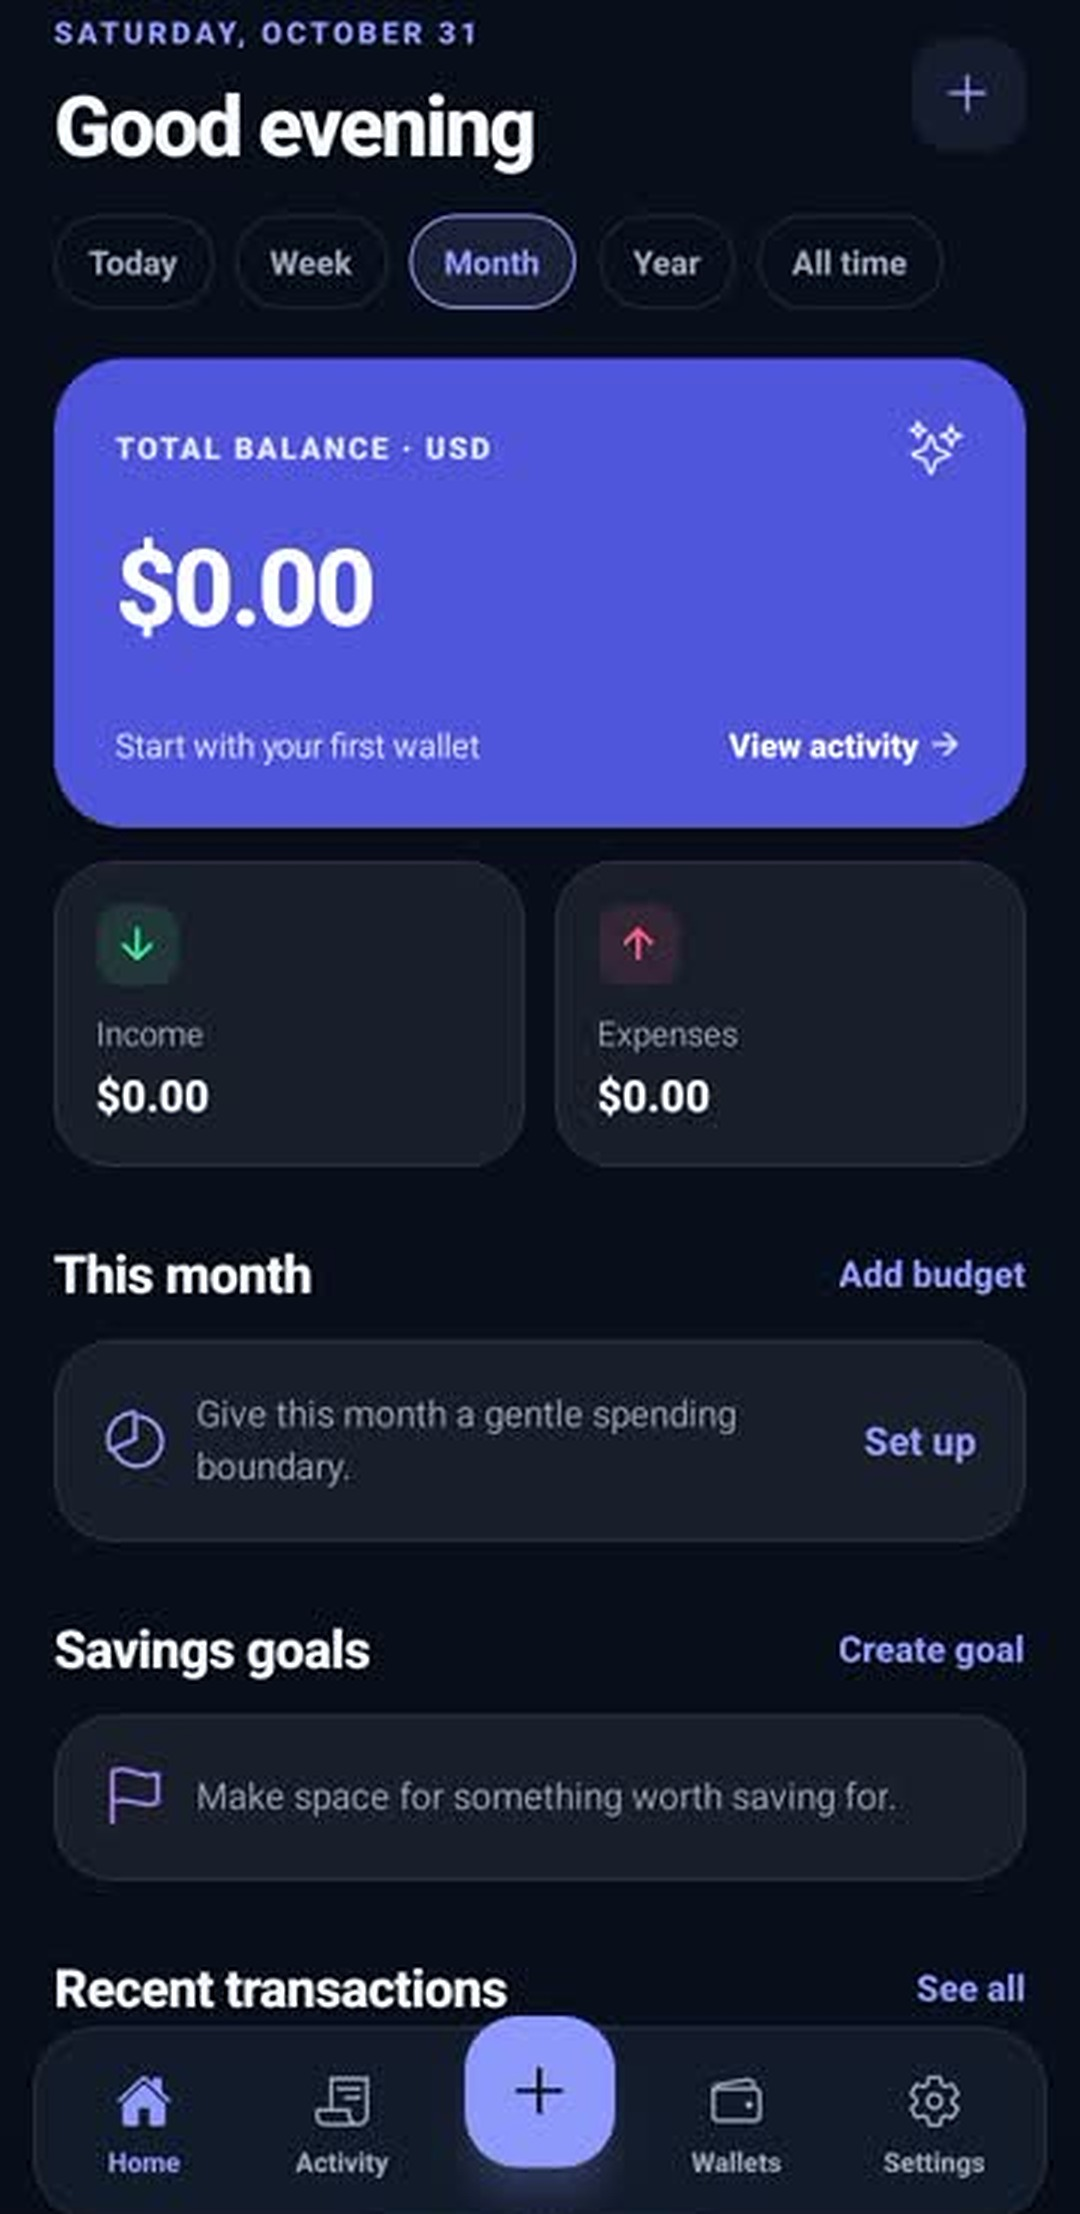
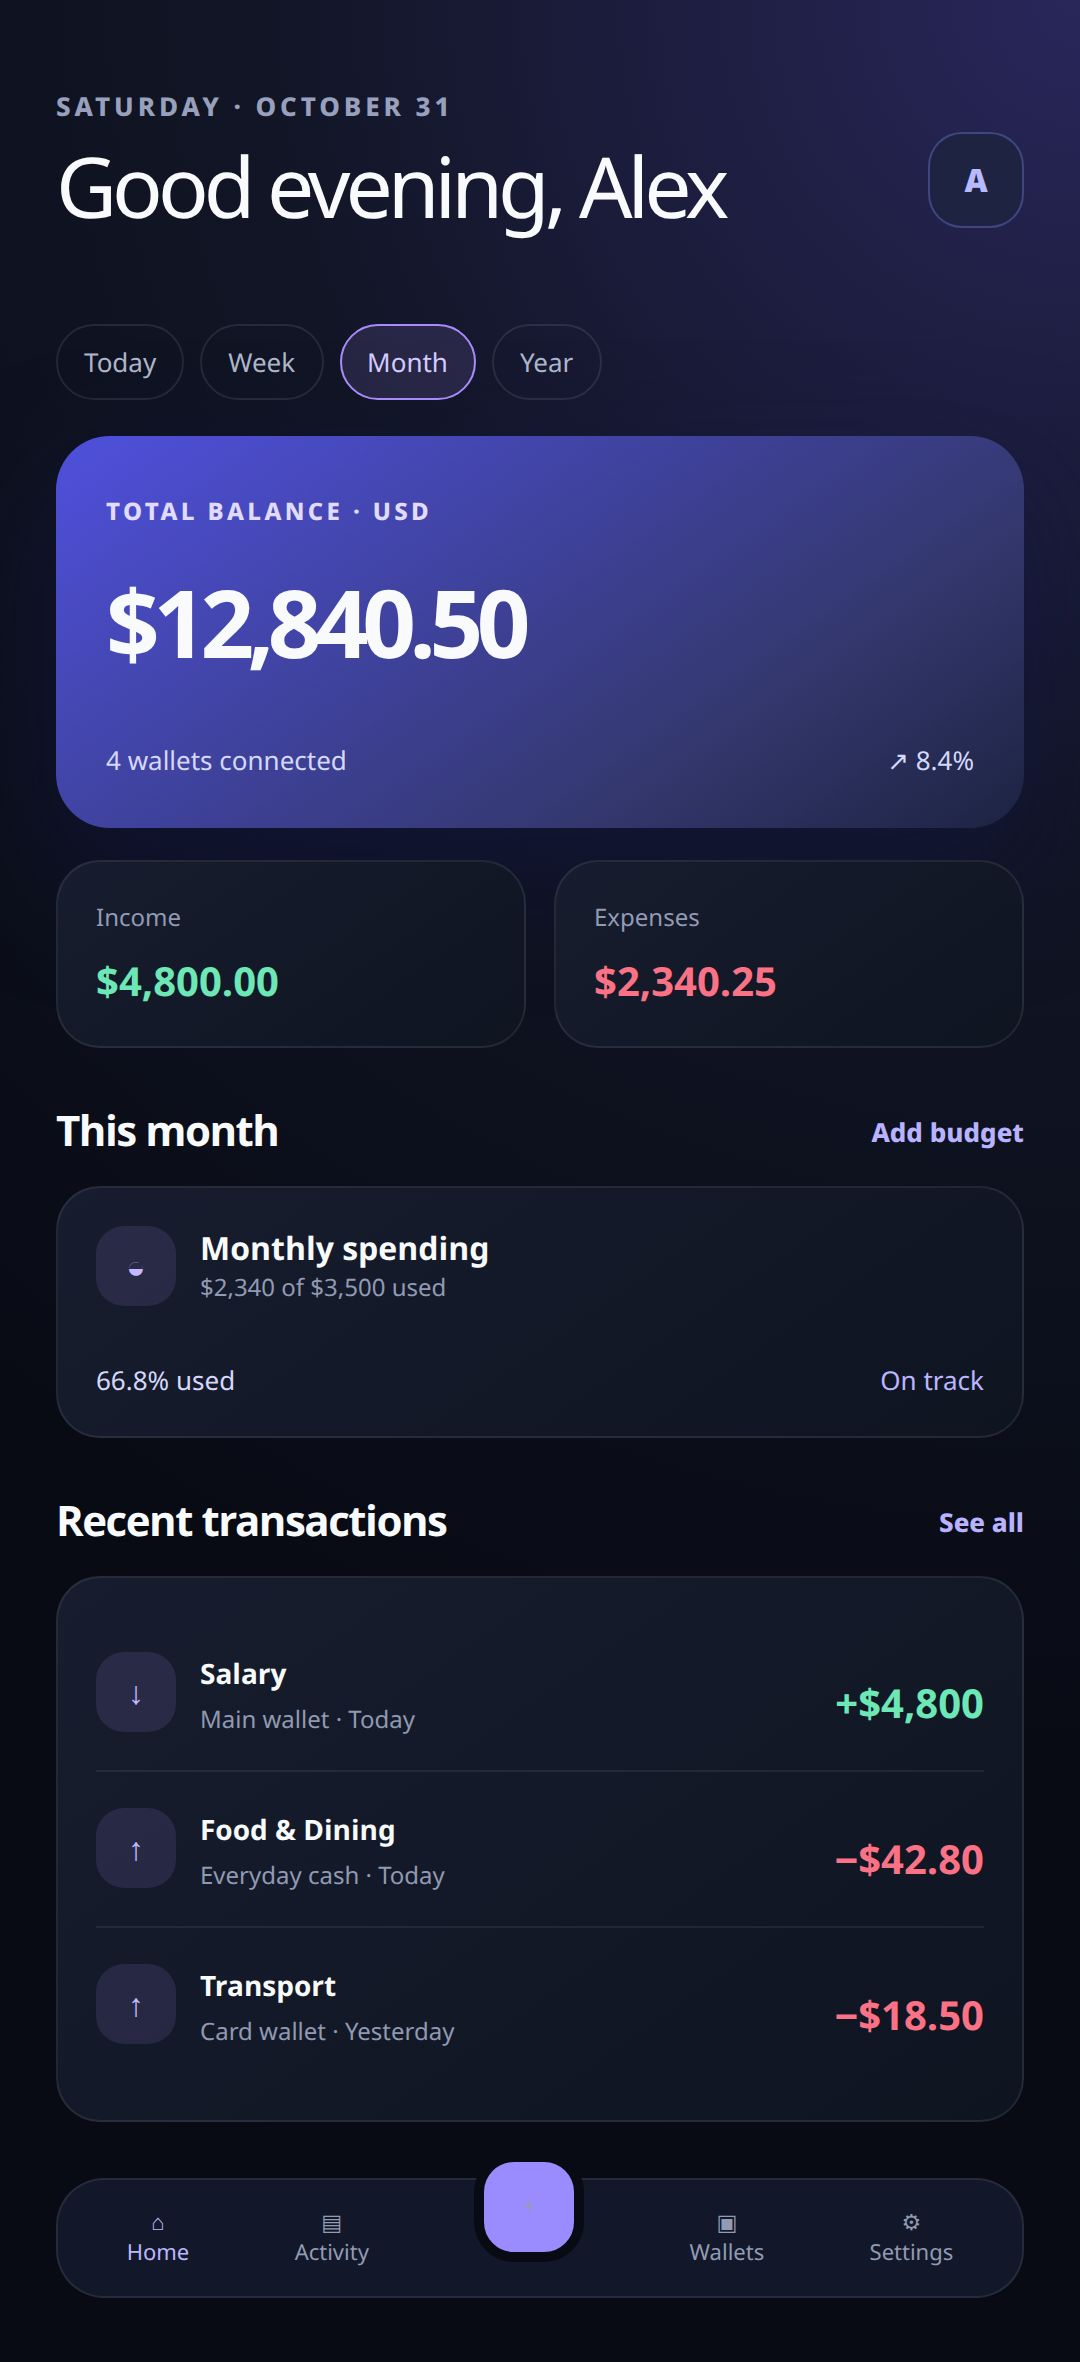
Refresh landing previews with live dashboard data

diff --git a/landing/marketing-preview.html b/landing/marketing-preview.html
@@ -1,0 +1,14 @@
+<!doctype html>
+<html lang="en"><head><meta charset="utf-8"><meta name="viewport" content="width=device-width,initial-scale=1"><title>GoBudget marketing previews</title><style>
+:root{color-scheme:dark;font-family:Inter,ui-sans-serif,system-ui,-apple-system,"Segoe UI",sans-serif;background:#080b14;color:#f8fafc}*{box-sizing:border-box}body{margin:0;background:#080b14}.screen{width:540px;min-height:1107px;padding:44px 28px 32px;background:radial-gradient(circle at 100% 0,#29265a 0,#111525 32%,#080b14 68%);overflow:hidden}.eyebrow{font-size:13px;letter-spacing:.15em;text-transform:uppercase;color:#98a0bd;font-weight:800}.top{display:flex;align-items:center;justify-content:space-between;margin-bottom:26px}.top .avatar{width:48px;height:48px;border-radius:17px;background:#1d2340;border:1px solid #8790ff55;display:grid;place-items:center;color:#b9b9ff;font-weight:900}.h1{font-size:42px;letter-spacing:-.06em;line-height:1.04;margin:10px 0 20px}.muted{color:#9ba3bb}.periods{display:flex;gap:8px;margin:12px 0 18px}.periods span,.chip{font-size:13px;color:#aeb5cb;border:1px solid #ffffff18;border-radius:999px;padding:9px 13px}.periods .on,.chip.on{color:#d3caff;border-color:#a78bfa;background:#a78bfa24}.balance{padding:25px;border-radius:27px;background:linear-gradient(145deg,#4f50dd,#34386f 70%,#1d2342);box-shadow:0 24px 60px #12174488}.balance small{font-size:12px;letter-spacing:.14em;color:#e1dcff;font-weight:800}.balance b{display:block;font-size:47px;letter-spacing:-.07em;margin-top:14px}.balance-foot{display:flex;justify-content:space-between;margin-top:28px;font-size:13px;color:#d5d7fb}.grid2{display:grid;grid-template-columns:1fr 1fr;gap:14px;margin-top:16px}.card{background:linear-gradient(145deg,#171d2e,#0f1421);border:1px solid #ffffff14;border-radius:22px;padding:19px}.card small{display:block;color:#919ab4;font-size:12px}.card b{display:block;font-size:20px;margin-top:10px}.in{color:#6ee7b7!important}.out{color:#fb7185!important}.section{display:flex;justify-content:space-between;align-items:center;margin:28px 0 13px}.section h2{font-size:21px;margin:0;letter-spacing:-.035em}.section a{color:#b9b2ff;font-size:13px;font-weight:800}.row{display:flex;align-items:center;justify-content:space-between;padding:17px 0;border-bottom:1px solid #ffffff12}.row:last-child{border-bottom:0}.row-left{display:flex;align-items:center;gap:12px}.icon{width:40px;height:40px;border-radius:14px;display:grid;place-items:center;background:#a78bfa21;color:#c5b8ff;font-weight:900}.row small{display:block;color:#9099b2;margin-top:4px;font-size:12px}.row strong{font-size:14px}.nav{display:flex;justify-content:space-around;align-items:center;margin-top:28px;padding:14px 8px;border-radius:24px;background:#121829;border:1px solid #ffffff16}.nav span{font-size:11px;color:#929bb4;text-align:center}.nav .active{color:#bdb7ff}.fab{width:55px;height:55px;border-radius:20px;background:#9a8cff;color:#0b0b13;display:grid;place-items:center;font-size:30px;margin-top:-31px;border:5px solid #080b14}.wallet{display:flex;align-items:center;gap:14px;padding:19px;border-radius:23px;background:linear-gradient(145deg,#171d2e,#101522);border:1px solid #ffffff14;margin-bottom:12px}.wallet-icon{width:46px;height:46px;border-radius:16px;background:#20284a;color:#bbb5ff;display:grid;place-items:center}.wallet-main{flex:1}.wallet-main b{font-size:16px}.wallet-main small{display:block;color:#9099b2;margin-top:5px}.wallet-amount{text-align:right}.wallet-amount b{font-size:16px}.graph{height:160px;display:flex;align-items:flex-end;gap:10px;padding:20px 12px 14px}.bar{flex:1;border-radius:8px 8px 3px 3px;background:linear-gradient(#a78bfa,#4d55d8)}.legend{display:flex;justify-content:space-between;color:#9099b2;font-size:11px}.search{height:48px;border-radius:16px;border:1px solid #ffffff15;background:#111727;color:#9aa3bb;padding:0 16px;display:flex;align-items:center;margin:12px 0 17px}.tabs{display:flex;gap:8px;overflow:hidden}.settings-row{display:flex;align-items:center;gap:14px;padding:20px 0;border-bottom:1px solid #ffffff12}.settings-row:last-child{border-bottom:0}.settings-row .copy{flex:1}.settings-row b{font-size:15px}.settings-row small{display:block;color:#919ab4;margin-top:4px}.toggle{width:44px;height:25px;border-radius:99px;background:#877bff;padding:3px}.toggle i{display:block;width:19px;height:19px;border-radius:50%;background:#fff;margin-left:19px}.sub{font-size:12px;line-height:1.55;color:#929bb4}.tagline{margin-top:18px;color:#adb5cc;font-size:13px}.accent{color:#bcb5ff}
+</style></head><body><main id="app"></main><script>
+const root=document.querySelector('#app'); const q=new URLSearchParams(location.search).get('screen')||'dashboard';
+const nav=`<div class="nav"><span class="active">⌂<br>Home</span><span>▤<br>Activity</span><span class="fab">+</span><span>▣<br>Wallets</span><span>⚙<br>Settings</span></div>`;
+const header=(eyebrow,title)=>`<div class="top"><div><div class="eyebrow">${eyebrow}</div><div class="h1">${title}</div></div><div class="avatar">A</div></div>`;
+function dashboard(){return `<div class="screen">${header('SATURDAY · OCTOBER 31','Good evening, Alex')}<div class="periods"><span>Today</span><span>Week</span><span class="on">Month</span><span>Year</span></div><div class="balance"><small>TOTAL BALANCE · USD</small><b>$12,840.50</b><div class="balance-foot"><span>4 wallets connected</span><span>↗ 8.4%</span></div></div><div class="grid2"><div class="card"><small>Income</small><b class="in">$4,800.00</b></div><div class="card"><small>Expenses</small><b class="out">$2,340.25</b></div></div><div class="section"><h2>This month</h2><a>Add budget</a></div><div class="card"><div class="row-left"><div class="icon">◒</div><div><strong>Monthly spending</strong><small>$2,340 of $3,500 used</small></div></div><div class="balance-foot"><span>66.8% used</span><span class="accent">On track</span></div></div><div class="section"><h2>Recent transactions</h2><a>See all</a></div><div class="card"><div class="row"><div class="row-left"><div class="icon">↓</div><div><strong>Salary</strong><small>Main wallet · Today</small></div></div><b class="in">+$4,800</b></div><div class="row"><div class="row-left"><div class="icon">↑</div><div><strong>Food & Dining</strong><small>Everyday cash · Today</small></div></div><b class="out">−$42.80</b></div><div class="row"><div class="row-left"><div class="icon">↑</div><div><strong>Transport</strong><small>Card wallet · Yesterday</small></div></div><b class="out">−$18.50</b></div></div>${nav}</div>`}
+function wallets(){return `<div class="screen">${header('WHERE MONEY LIVES','Wallets')}<div class="section"><h2>Connected wallets</h2><a>+ Add wallet</a></div><div class="wallet"><div class="wallet-icon">▣</div><div class="wallet-main"><b>Everyday Cash</b><small>Cash · USD</small></div><div class="wallet-amount"><b>$1,420.50</b><small>+ $250 today</small></div></div><div class="wallet"><div class="wallet-icon">▤</div><div class="wallet-main"><b>Main Bank</b><small>Bank account · USD</small></div><div class="wallet-amount"><b>$8,940.00</b><small>Updated today</small></div></div><div class="wallet"><div class="wallet-icon">◈</div><div class="wallet-main"><b>bKash</b><small>Mobile banking · BDT</small></div><div class="wallet-amount"><b>৳28,500</b><small>৳4,000 this week</small></div></div><div class="section"><h2>Wallet overview</h2><a>View transfers</a></div><div class="card"><div class="row"><span class="muted">Total across wallets</span><b>$12,840.50</b></div><div class="row"><span class="muted">Currencies</span><b>USD · BDT</b></div><div class="row"><span class="muted">This month</span><b class="in">+$2,459.75</b></div></div>${nav}</div>`}
+function activity(){return `<div class="screen">${header('YOUR MONEY MOVES','Activity')}<div class="search">⌕ &nbsp; Search transactions</div><div class="tabs"><span class="chip on">All</span><span class="chip">Income</span><span class="chip">Expense</span><span class="chip">Transfer</span></div><div class="section"><h2>6 records</h2><a>October 2026</a></div><div class="card"><div class="row"><div class="row-left"><div class="icon">↓</div><div><strong>Salary</strong><small>Main Bank · Oct 31</small></div></div><b class="in">+$4,800</b></div><div class="row"><div class="row-left"><div class="icon">↑</div><div><strong>Food & Dining</strong><small>Everyday Cash · Oct 31</small></div></div><b class="out">−$42.80</b></div><div class="row"><div class="row-left"><div class="icon">↑</div><div><strong>Transport</strong><small>Card wallet · Oct 30</small></div></div><b class="out">−$18.50</b></div><div class="row"><div class="row-left"><div class="icon">↔</div><div><strong>Wallet transfer</strong><small>Main Bank → Everyday Cash</small></div></div><b>$250.00</b></div></div><div class="tagline">Tap a transaction to edit · hold to delete</div>${nav}</div>`}
+function analytics(){return `<div class="screen">${header('YOUR MONEY, IN FOCUS','Analytics')}<div class="card"><small>Monthly net flow · USD</small><b class="in">+$2,459.75</b><div class="graph"><i class="bar" style="height:35%"></i><i class="bar" style="height:52%"></i><i class="bar" style="height:43%"></i><i class="bar" style="height:75%"></i><i class="bar" style="height:61%"></i><i class="bar" style="height:92%"></i><i class="bar" style="height:68%"></i></div><div class="legend"><span>Oct 1</span><span>Oct 15</span><span>Oct 31</span></div></div><div class="section"><h2>Top categories</h2><a>This month</a></div><div class="card"><div class="row"><span>Food & Dining</span><b>$620.40</b></div><div class="row"><span>Transport</span><b>$320.00</b></div><div class="row"><span>Bills & Utilities</span><b>$280.00</b></div><div class="row"><span>Shopping</span><b>$215.50</b></div></div><div class="section"><h2>Highest expense</h2></div><div class="card"><div class="row-left"><div class="icon">↗</div><div><strong>Food & Dining</strong><small>26.5% of expenses</small></div></div></div>${nav}</div>`}
+function settings(){return `<div class="screen">${header('MAKE IT YOURS','Settings')}<div class="section"><h2>Profile</h2><a>Edit</a></div><div class="card"><div class="row-left"><div class="avatar">A</div><div><strong>Alex Morgan</strong><small>Local profile · Private by default</small></div></div></div><div class="section"><h2>Preferences</h2></div><div class="card"><div class="settings-row"><div class="icon">◐</div><div class="copy"><b>Black glass theme</b><small>Premium dark interface</small></div><div class="toggle"><i></i></div></div><div class="settings-row"><div class="icon">$</div><div class="copy"><b>Base currency</b><small>USD · used for totals and reports</small></div><span class="accent">USD ›</span></div><div class="settings-row"><div class="icon">⇩</div><div class="copy"><b>Export backup</b><small>Save a complete JSON copy</small></div><span class="accent">›</span></div></div><div class="tagline">Local-first records · No mandatory account · Your data stays on this device</div>${nav}</div>`}
+root.innerHTML=q==='wallets'?wallets():q==='activity'?activity():q==='analytics'?analytics():q==='settings'?settings():dashboard();
+</script></body></html>

diff --git a/landing/index.html b/landing/index.html
@@ -130,11 +130,11 @@ footer{border-top:1px solid var(--line);padding:36px 0 52px;display:flex;justify
   <article class="feature glass"><div class="icon">↓</div><h3>Backup</h3><p>Export a complete JSON copy whenever you want.</p></article>
 </div></section>
 
-<section id="screens"><div class="head"><div class="eyebrow">Real app screens</div><h2>Designed to feel <span class="grad">effortless.</span></h2><p>Actual screens from the GoBudget app — dashboard, wallets, quick entry and settings.</p></div>
+<section id="screens"><div class="head"><div class="eyebrow">Dynamic marketing previews</div><h2>Designed to feel <span class="grad">effortless.</span></h2><p>Populated previews built from the current GoBudget dashboard flow — dashboard, wallets, activity, analytics and settings.</p></div>
 <div class="shots">
   <article class="shot glass"><span class="tag">Overview</span><h3>Your whole month, one glance.</h3><p>Balance, income and expenses with Today, Week, Month, Year filters.</p><div class="device"><img src="assets/m-dashboard.jpg" alt="GoBudget dashboard" loading="lazy"></div></article>
   <article class="shot glass"><span class="tag">Wallets</span><h3>Every wallet, set up in seconds.</h3><p>Cash, bank, mobile or digital — pick a currency and opening balance.</p><div class="device"><img src="assets/m-wallets.jpg" alt="GoBudget new wallet sheet" loading="lazy"></div></article>
-  <article class="shot glass"><span class="tag">Balance</span><h3>Clear numbers, calm design.</h3><p>Quick actions and readable summaries keep your next decision close.</p><div class="device"><img src="assets/m-expense-form.jpg" alt="GoBudget balance and quick actions" loading="lazy"></div></article>
+  <article class="shot glass"><span class="tag">Analytics</span><h3>Clear numbers, calm design.</h3><p>Understand income, spending categories and monthly trends at a glance.</p><div class="device"><img src="assets/m-analytics.jpg" alt="GoBudget analytics dashboard" loading="lazy"></div></article>
   <article class="shot glass"><span class="tag">Settings</span><h3>Your data, your rules.</h3><p>Dark theme, base currency, JSON backup and no cloud database.</p><div class="device"><img src="assets/m-settings.jpg" alt="GoBudget settings" loading="lazy"></div></article>
 </div></section>
 

diff --git a/landing/README.md b/landing/README.md
@@ -29,3 +29,8 @@ The primary CTA uses the clean artifact name **GoBudget.apk**. The hero marketin
 ## Reference-aligned edition
 
 The landing page now follows the supplied black-morphism reference: sticky glass navigation, monochrome premium palette, bento feature grid, metrics strip, floating device chips, horizontally scrollable mobile screenshot cards, and polished download/FAQ sections. The screenshot cards use the supplied marketing-style assets (`m-dashboard.jpg`, `m-wallets.jpg`, `m-expense-form.jpg`, `m-settings.jpg`).
+
+
+## Dynamic marketing screenshots
+
+`marketing-preview.html` is the editable source for the populated preview set. It uses one consistent sample account across Dashboard, Wallets, Activity, Analytics and Settings, with matching USD totals, wallet balances, categories and recent transactions. The rendered `m-*.jpg` files are used by the landing page screenshot cards.
